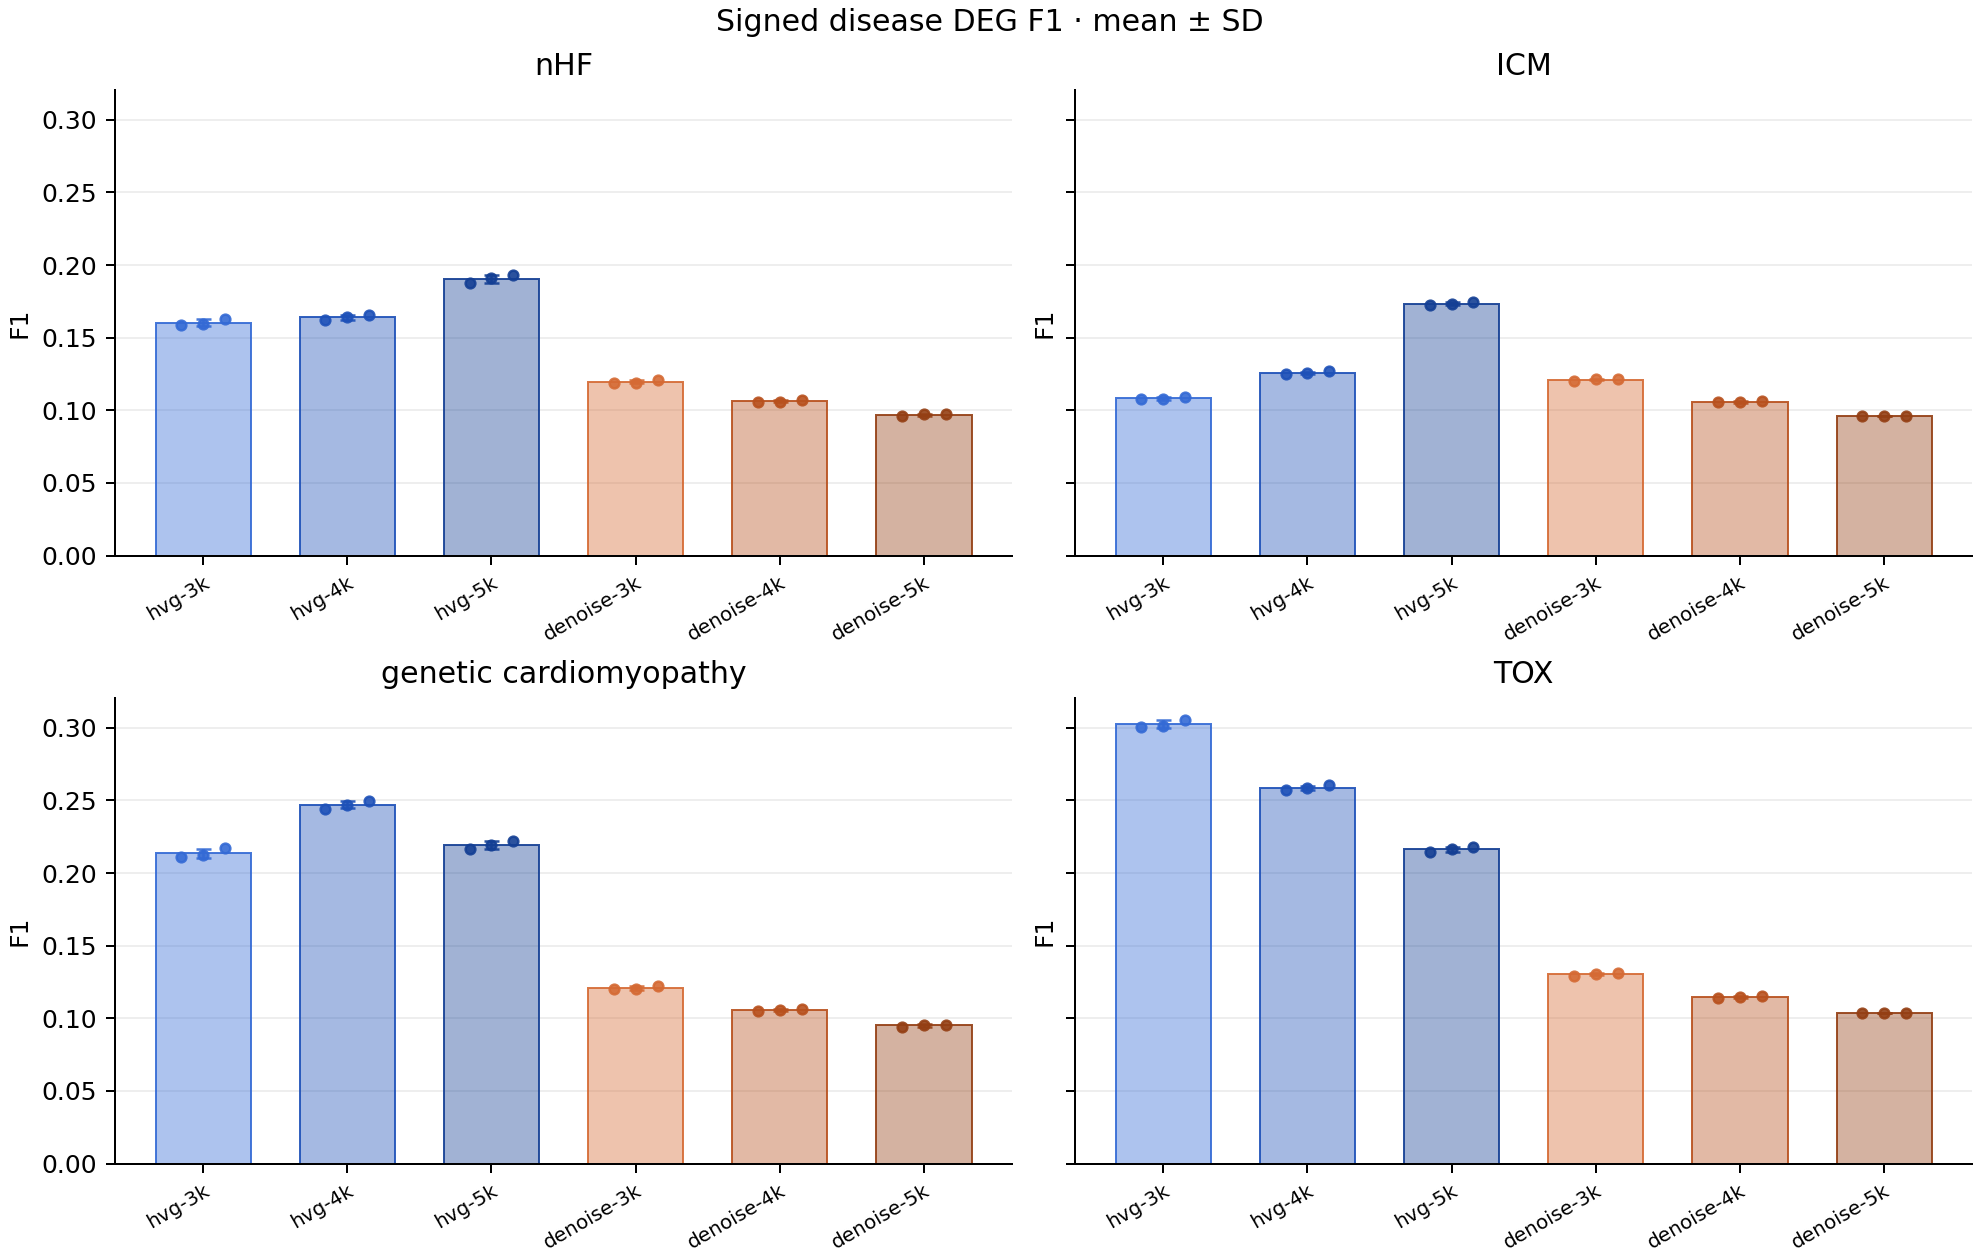
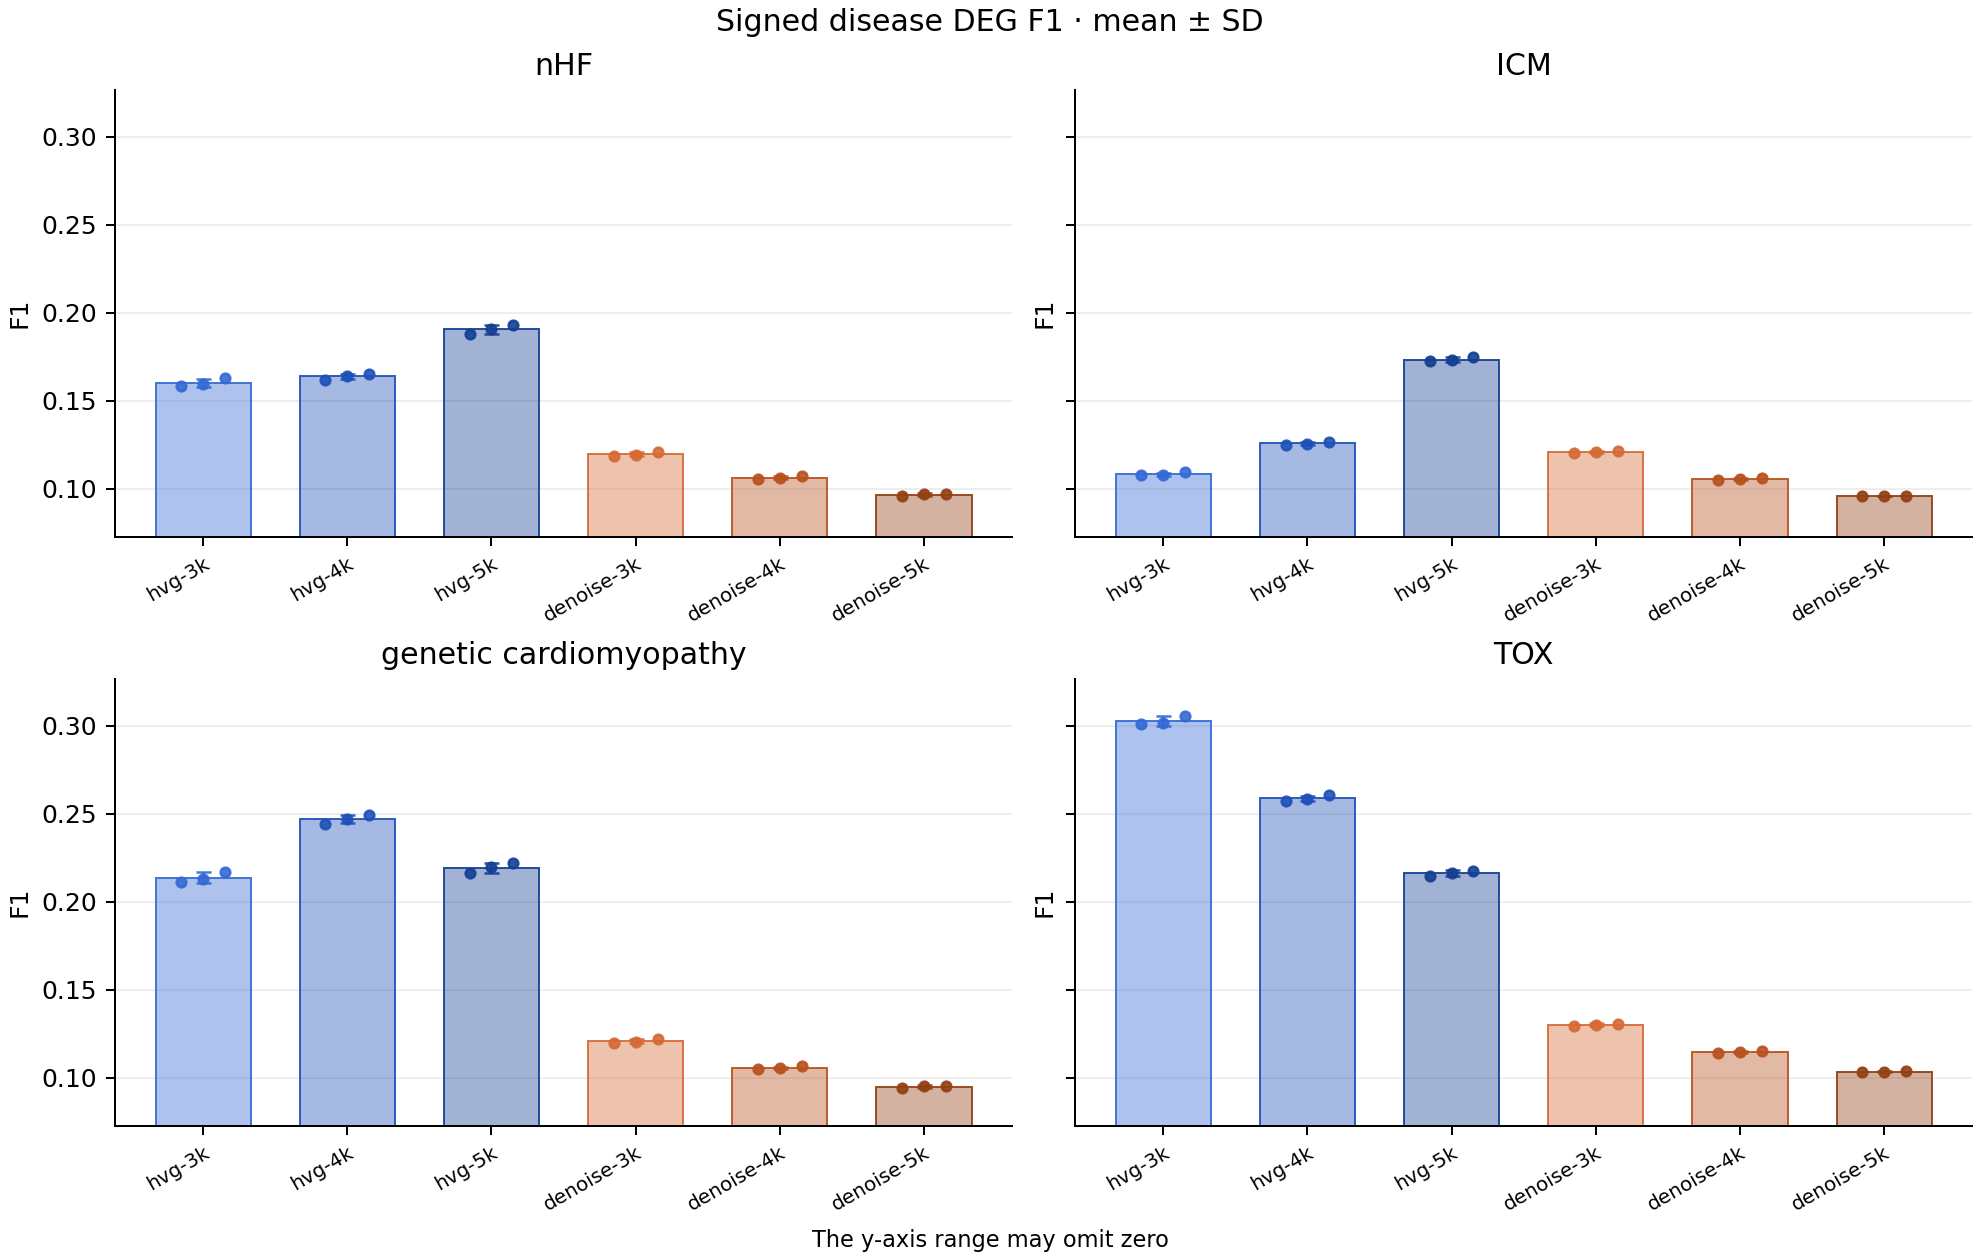
Focus Stage 2 comparison plots on their observed values

diff --git a/stage2/04_tsg_axis/figure/script/render.py b/stage2/04_tsg_axis/figure/script/render.py
@@ -13,10 +13,11 @@ import pandas as pd
 FIGURE = Path(__file__).resolve().parents[1]
 sys.path.insert(0, str(FIGURE.parents[1] / "util/output/api"))
 
-from stage2_util.plotting import replicate_bar, save_figure
+from stage2_util.plotting import focus_y, replicate_bar, save_figure
 
 LOWER_IS_BETTER = {"Δ RMSE", "Δ E-distance", "Δ MMD"}
 AXIS_HUES = {"hvg": 220, "denoise": 20}
+RANGE_NOTE = "The y-axis range may omit zero"
 
 
 def panels(summary_csv, fold_csv, category):
@@ -43,10 +44,9 @@ def panels(summary_csv, fold_csv, category):
     return axes, categories, replicates
 
 
-def render_panel(plot, axes, replicates, category):
-    for x, axis in enumerate(axes):
+def render_panel(plot, axes, groups):
+    for x, (axis, values) in enumerate(zip(axes, groups, strict=True)):
         method, *_, size = axis.split("-")
-        values = replicates.get_group((axis, category))
         if np.isfinite(values).any():
             replicate_bar(plot, x, values, hue=AXIS_HUES[method],
                           depth=5 - int(size.removesuffix("k")), width=.66)
@@ -66,10 +66,13 @@ def render_metrics(csv, fold_csv, output):
         raise ValueError("metric summary must have nine scores for every reported axis")
     fig, plots = plt.subplots(3, 3, figsize=(13.2, 10.8), layout="constrained")
     for plot, metric in zip(plots.flat, metrics, strict=True):
-        render_panel(plot, axes, replicates, metric)
+        groups = [replicates.get_group((axis, metric)) for axis in axes]
+        render_panel(plot, axes, groups)
+        focus_y(plot, groups, reference=0 if metric == "Δ R²" else None)
         direction = "↓" if metric in LOWER_IS_BETTER else "↑"
         plot.set_title(f"{metric} {direction}")
     fig.suptitle("TranSiGen Delta scores on fixed tenv axes · mean ± SD")
+    fig.supxlabel(RANGE_NOTE, fontsize=9)
     save_figure(fig, output / "delta-metrics.png", dpi=180)
     plt.close(fig)
 
@@ -79,12 +82,15 @@ def render_disease(csv, fold_csv, output):
     fig, plots = plt.subplots((len(diseases) + 1) // 2, 2, figsize=(11, 7),
                               sharey=True, squeeze=False, layout="constrained")
     for plot, disease in zip(plots.flat, diseases):
-        render_panel(plot, axes, replicates, disease)
+        groups = [replicates.get_group((axis, disease)) for axis in axes]
+        render_panel(plot, axes, groups)
         plot.set_title(disease.replace("_", " "))
         plot.set_ylabel("F1")
     for plot in list(plots.flat)[len(diseases):]:
         plot.remove()
+    focus_y(plots.flat[0], (values for _, values in replicates))
     fig.suptitle("Signed disease DEG F1 · mean ± SD")
+    fig.supxlabel(RANGE_NOTE, fontsize=9)
     save_figure(fig, output / "disease-f1.png", dpi=180)
     plt.close(fig)
 

diff --git a/stage2/05_tsg_loss/figure/script/loss_plot_style.py b/stage2/05_tsg_loss/figure/script/loss_plot_style.py
@@ -11,6 +11,7 @@ from stage2_util import palette, plotting
 
 LOWER_IS_BETTER = frozenset(("Δ RMSE", "Δ E-distance", "Δ MMD"))
 FOLD_SCORES = "fold-scores.csv"
+FOCUSED_Y_NOTE = "Y-axis ranges follow the data and may omit zero."
 
 
 def metric_direction(axis, metric, label):
@@ -62,15 +63,19 @@ def score_bar(axis, position, values, *, hue, width, depth=2):
                   transform=axis.get_xaxis_transform(), zorder=4)
 
 
-def setup_score_axis(axis, x, labels, *, difference):
+def setup_score_axis(axis, x, labels, groups, *, difference, metric):
     axis.set(xticks=x, xticklabels=labels, xlim=(x[0] - .5, x[-1] + .5))
-    axis.axhline(0, color="#666666", linewidth=.8, zorder=1.5)
     axis.set_axisbelow(True)
     axis.grid(axis="y", color="#777777", alpha=.25)
     axis.spines[["top", "right"]].set_visible(False)
     if difference:
+        axis.axhline(0, color="#666666", linewidth=.8, zorder=1.5)
         limit = max(map(abs, axis.get_ylim()))
         axis.set_ylim(-limit, limit)
+        return
+    lower, upper = plotting.focus_y(axis, groups, reference=0 if metric == "Δ R²" else None)
+    if lower <= 0 <= upper:
+        axis.axhline(0, color="#666666", linewidth=.8, zorder=1.5)
 
 
 def render_weight_panels(replicates, field, output, alphas, labels,
@@ -81,15 +86,15 @@ def render_weight_panels(replicates, field, output, alphas, labels,
     x = np.arange(len(alphas))
     for (metric, label), axis in zip(labels.items(), axes.flat, strict=True):
         metric_direction(axis, metric, label)
-        for position, alpha in enumerate(alphas):
-            score_bar(axis, position, replicates[alpha, metric][field],
-                      hue=palette.HUES[position], width=.68)
-        setup_score_axis(axis, x, alphas, difference=difference)
+        groups = [replicates[alpha, metric][field] for alpha in alphas]
+        for position, values in enumerate(groups):
+            score_bar(axis, position, values, hue=palette.HUES[position], width=.68)
+        setup_score_axis(axis, x, alphas, groups, difference=difference, metric=metric)
         if rotate:
             for tick in axis.get_xticklabels():
                 tick.set(rotation=45, ha="right", fontsize=9)
 
-    fig.supxlabel(xlabel)
+    fig.supxlabel(xlabel if difference else f"{xlabel}\n{FOCUSED_Y_NOTE}")
     fig.supylabel(f"Paired score difference vs. α = {reference}" if difference else "Equal-fold score")
     plotting.save_figure(fig, output, dpi=180)
     plt.close(fig)

diff --git a/stage2/05_tsg_loss/05.1_loss_metrics/figure/script/render_metrics.py b/stage2/05_tsg_loss/05.1_loss_metrics/figure/script/render_metrics.py
@@ -16,7 +16,8 @@ import numpy as np
 LOSS = Path(__file__).resolve().parents[3]
 sys.path[:0] = [str(LOSS.parent / "util/output/api"), str(LOSS / "figure/script")]
 
-from loss_plot_style import FOLD_SCORES, metric_direction, read_replicates, score_bar, setup_score_axis
+from loss_plot_style import (FOCUSED_Y_NOTE, FOLD_SCORES, metric_direction, read_replicates,
+                             score_bar, setup_score_axis)
 from stage2_util import palette, plotting
 
 LOSSES = {"mse": "MSE", "cos": "Cos", "pcc": "PCC", "l1": "L1"}
@@ -68,11 +69,13 @@ def render_panels(replicates, field, output):
     width = .24
     for (metric, label), plot in zip(LABELS.items(), plots.flat, strict=True):
         metric_direction(plot, metric, label)
+        groups = []
         for position, (form, hue) in enumerate(zip(LOSSES, LOSS_HUES, strict=True)):
             for index, (alpha, depth) in enumerate(zip(ALPHAS, ALPHA_DEPTHS, strict=True)):
-                score_bar(plot, position + (index - 1) * width,
-                          replicates[form, alpha, metric][field], hue=hue, depth=depth, width=width)
-        setup_score_axis(plot, x, LOSSES.values(), difference=difference)
+                values = replicates[form, alpha, metric][field]
+                score_bar(plot, position + (index - 1) * width, values, hue=hue, depth=depth, width=width)
+                groups.append(values)
+        setup_score_axis(plot, x, LOSSES.values(), groups, difference=difference, metric=metric)
 
     handles = []
     for alpha, depth in zip(ALPHAS, ALPHA_DEPTHS, strict=True):
@@ -80,7 +83,8 @@ def render_panels(replicates, field, output):
         handles.append(Patch(facecolor=secondary, edgecolor=main, label=alpha))
     fig.legend(handles=handles, title="Delta coefficient α", ncols=3,
                loc="outside upper center", frameon=False)
-    fig.supxlabel("Delta loss metric")
+    xlabel = "Delta loss metric"
+    fig.supxlabel(xlabel if difference else f"{xlabel}\n{FOCUSED_Y_NOTE}")
     fig.supylabel("Paired score difference vs. MSE × 1" if difference else "Equal-fold score")
     plotting.save_figure(fig, output / FIGURES[field], dpi=180)
     plt.close(fig)

diff --git a/stage2/06_tsg_shape/06.1_round1/figure/script/render_shape.py b/stage2/06_tsg_shape/06.1_round1/figure/script/render_shape.py
@@ -81,17 +81,25 @@ def render_metrics(data, output, smoke):
         for (metric, label), plot in zip(LABELS.items(), plots.flat, strict=True):
             plot.set_title(f"{label} {'↓' if metric in LOWER_IS_BETTER else '↑'}", fontweight="bold")
             means = [summary[shape, metric][field] for shape in shapes]
-            plot.axhline(0, color="#666666", linewidth=.8, zorder=2)
-            for position, shape, mean in zip(positions, shapes, means, strict=True):
-                values = [replicates[shape, metric, fold][field] for fold in folds]
+            if difference:
+                plot.axhline(0, color="#666666", linewidth=.8, zorder=2)
+            groups = [[replicates[shape, metric, fold][field] for fold in folds] for shape in shapes]
+            for position, shape, mean, values in zip(positions, shapes, means, groups, strict=True):
                 plotting.replicate_bar(plot, position, values, hue=SHAPE_HUES[shape], width=.68)
                 if math.isnan(mean):
                     plot.text(position, .02, "NA", ha="center", fontsize=7, transform=plot.get_xaxis_transform())
+            if not difference:
+                lower, upper = plotting.focus_y(plot, groups, reference=0 if metric == "Δ R²" else None)
+                if lower <= 0 <= upper:
+                    plot.axhline(0, color="#666666", linewidth=.8, zorder=1.5)
             plot.set_xticks(positions, shapes, rotation=30, ha="right", fontsize=8)
             plot.set_xlim(-.5, len(shapes) - .5)
             plot.grid(axis="y", color="#777777", alpha=.25, zorder=1)
             plot.spines[["top", "right"]].set_visible(False)
-        figure.suptitle("Bars are means · Dots are replicates · Error bars are sample SD")
+        title = "Bars are means · Dots are replicates · Error bars are sample SD"
+        if not difference:
+            title += "\nY-axis ranges follow the data and may omit zero."
+        figure.suptitle(title)
         figure.supylabel("Paired difference from the original architecture" if difference
                          else "Held-out score")
         plotting.save_figure(figure, output / filename, dpi=180)

diff --git a/stage2/util/output/api/stage2_util/plotting.py b/stage2/util/output/api/stage2_util/plotting.py
@@ -158,6 +158,33 @@ def replicate_bar(axis, x, values, *, hue=220, depth=2, width=.8, spread=None,
     return bars, dots, errors
 
 
+def focus_y(axis, groups, *, reference=None, pad=.10):
+    """Set and return linear y limits around finite observations and sample SD intervals.
+
+    Each group supplies one vector of observed scores. The margin on each side
+    is a fraction of the plotted span. Include a reference when the chart
+    calls for one. Without finite observations or a reference, keep the limits.
+    """
+    if not np.isfinite(pad) or pad <= 0:
+        raise ValueError("y-axis padding must be finite and positive")
+    if reference is not None and not np.isfinite(reference):
+        raise ValueError("the y-axis reference must be finite")
+    extents = [] if reference is None else [reference]
+    for group in groups:
+        values = _finite_replicates(group)
+        if not len(values):
+            continue
+        extents.extend((values.min(), values.max()))
+        if len(values) > 1:
+            average, deviation = values.mean(), values.std(ddof=1)
+            extents.extend((average - deviation, average + deviation))
+    if not extents:
+        return axis.get_ylim()
+    lower, upper = min(extents), max(extents)
+    margin = pad * (upper - lower or abs(lower) or 1)
+    return axis.set_ylim(lower - margin, upper + margin)
+
+
 def bubble(axis, x, y, sizes, *, hue=220, depth=2, **kwargs):
     """Draw size-encoded points with the main color for both faces and edges."""
     color = palette.color_pair(hue, depth).main

diff --git a/stage2/util/execution/tests/test_plotting.py b/stage2/util/execution/tests/test_plotting.py
@@ -148,6 +148,19 @@ class PlottingTests(unittest.TestCase):
         self.assertEqual((len(self.axis.patches), len(self.axis.collections), len(self.axis.containers)),
                          (0, 0, 0))
 
+    def test_focus_y_contains_replicates_uncertainty_and_padding(self):
+        lower, upper = plotting.focus_y(self.axis, [[10, 14], [float("nan"), 15]])
+        self.assertAlmostEqual(lower, 8.58873, places=5)
+        self.assertAlmostEqual(upper, 15.58284, places=5)
+        self.assertEqual(self.axis.get_ylim(), (lower, upper))
+
+    def test_focus_y_preserves_reference_and_expands_constant_values(self):
+        lower, upper = plotting.focus_y(self.axis, [[-3, -3]], reference=0)
+        self.assertLess(lower, -3)
+        self.assertGreater(upper, 0)
+        self.assertEqual(plotting.focus_y(self.axis, [[5, 5]]), (4.5, 5.5))
+        self.assertEqual(plotting.focus_y(self.axis, [[], [float("nan")]]), (4.5, 5.5))
+
     def test_histogram_retains_bin_edges_and_counts(self):
         counts, edges, bars = plotting.histogram(self.axis, [0, .3, .75, 1],
                                                  bins=[0, .5, .7, 1], hue=60)

diff --git a/stage2/AGENTS.md b/stage2/AGENTS.md
@@ -59,6 +59,10 @@ points with history unavailable before completing a cutover.
   another chart type. Use each `(fold, seed)` as a within-group replicate.
   Draw defined replicate values as dots, bar heights as means and error
   bars as sample SD when at least two values are defined.
+  Set y-axis limits near the plotted values when this makes between-group
+  differences easier to see. The range may omit zero. Keep the plotted dots,
+  complete error bars and relevant references visible. Indicate when a bar
+  chart omits zero, and use common limits for directly comparable panels.
   Encode each grouping variable on its own hue or depth axis, up to two
   grouping variables. Replace figures at their canonical paths and discard
   superseded render bundles.

diff --git a/stage2/util/README.md b/stage2/util/README.md
@@ -46,6 +46,10 @@ root to reproduce it. Use `--output PATH` to render to a different file.
 - `plotting.learning_curve(axis, runs)` draws one training and one
   validation line per run. Pass its observed `(epochs, train, validation)`
   values and call once per model subplot.
+- `plotting.focus_y(axis, groups, reference=...)` sets a padded y range
+  covering finite observations and sample SD. Pass one iterable per group
+  and provide a reference value when the panel needs it in view. Use the
+  same collection of groups for panels that share a scale.
 
 Use one color axis per grouping variable. Map the first variable to hue
 and the second to depth when present. Replicates inherit the color of

diff --git a/docs/adr/0093-stage2-shared-plotting-and-in-place-figures.md b/docs/adr/0093-stage2-shared-plotting-and-in-place-figures.md
@@ -19,6 +19,9 @@ curves use one panel per model, with a train and validation line spanning
 the observed epochs of every fold and seed. Each score group shows the
 mean, the defined measurements and sample standard deviation. A singleton
 has one dot and its mean bar.
+Focus score y-axes near the plotted data when it helps compare groups.
+Keep all finite scores, complete SD intervals and meaningful reference
+values in range. Label bar figures whose y-axes omit zero.
 
 Each publication keeps one current set of PNGs, plotting data and renderers
 under `figure/`. Re-render from the complete plotted data and refresh the

diff --git a/stage2/04_tsg_axis/README.md b/stage2/04_tsg_axis/README.md
@@ -230,7 +230,9 @@ python "$STEP/figure/script/render.py" --data "$STEP/figure/data" \
 ```
 
 The [current rendering receipt](log/342-figure-render.json) records the CSV
-and PNG hashes. Metric panel arrows show the preferred direction. The
+and PNG hashes. Metric panel arrows show the preferred direction. Each metric
+y-axis covers its fold scores and SD bars. The disease panels share one range
+across all four diseases, and the Δ R² panel includes the zero reference. The
 [canonical export receipt](log/322-canonical-axis-report.json) records the
 six ID mappings and sealed table hashes.
 

diff --git a/stage2/02_gene_axis/README.md b/stage2/02_gene_axis/README.md
@@ -7,6 +7,7 @@
 The [figure rendering receipt](log/342-figure-render.json) binds the five
 current PNGs to their plotted data and renderer files. The two methods use
 a consistent hue for each size and a consistent depth for each disease.
+Both coverage figures show the complete 0–100% range for comparison.
 
 Use the same prediction axis ID for selection, tenv training and Step 04.
 HVG-DEG publishes `hvg-2k` through `hvg-5k`. Denoise-DEG publishes
